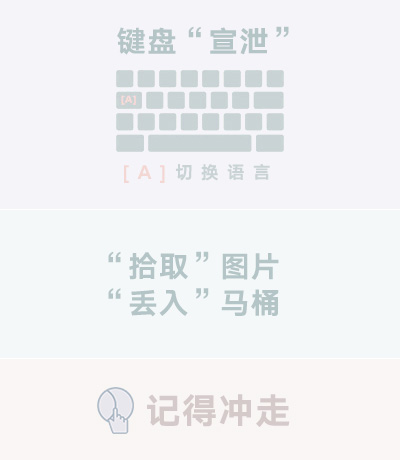
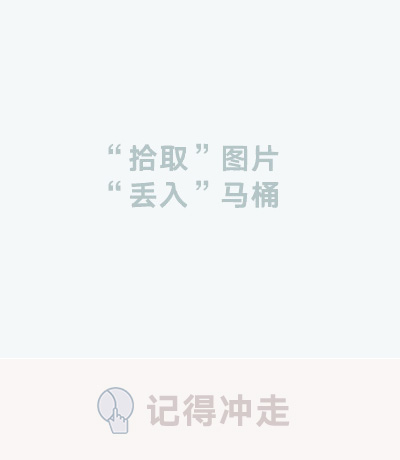
2121

diff --git a/RemoteServer/server.js b/RemoteServer/server.js
@@ -174,7 +174,9 @@
  app.get("/console", function(req, res) {
      res.sendFile(__dirname + "/public/washroom/console/console.html");
  });
-
+ app.get('/toilet2', function(req, res) {
+     res.sendFile(__dirname + "/public/washroom/closestool/uploader.html");
+ })
 
  var urlencodedParser = bodyParser.urlencoded({
      extended: false

diff --git a/RemoteServer/public/washroom/home/index.html b/RemoteServer/public/washroom/home/index.html
@@ -23,7 +23,7 @@
     <script language="javascript" type="text/javascript" src="/washroom/app.js"></script>
 
 
-    <a id = "aToilet" href="./toilet">
+    <a id = "aToilet" href="./toilet2">
         <img class="img" id="toilet" src="/washroom/lib/catalog/toilet.jpg" alt="马桶" />
     </a>
     <a href="./faucet">
